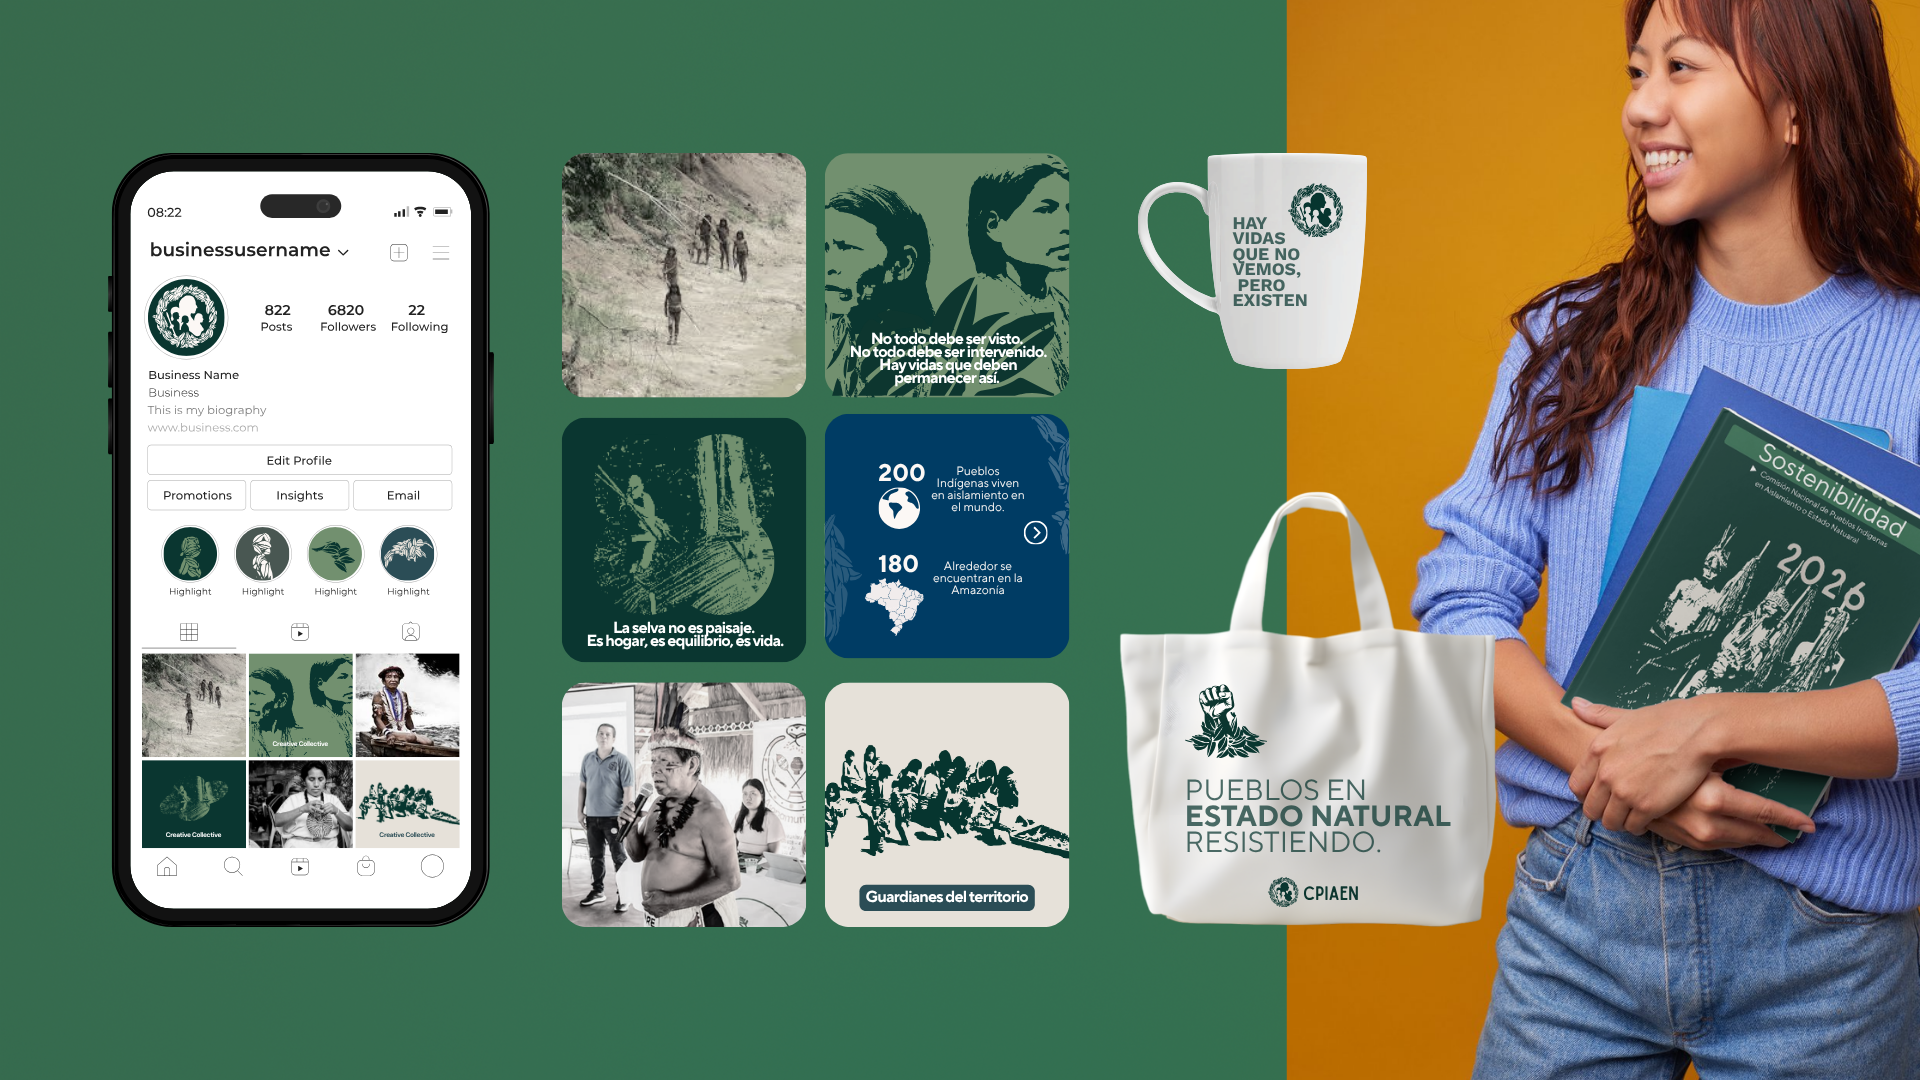
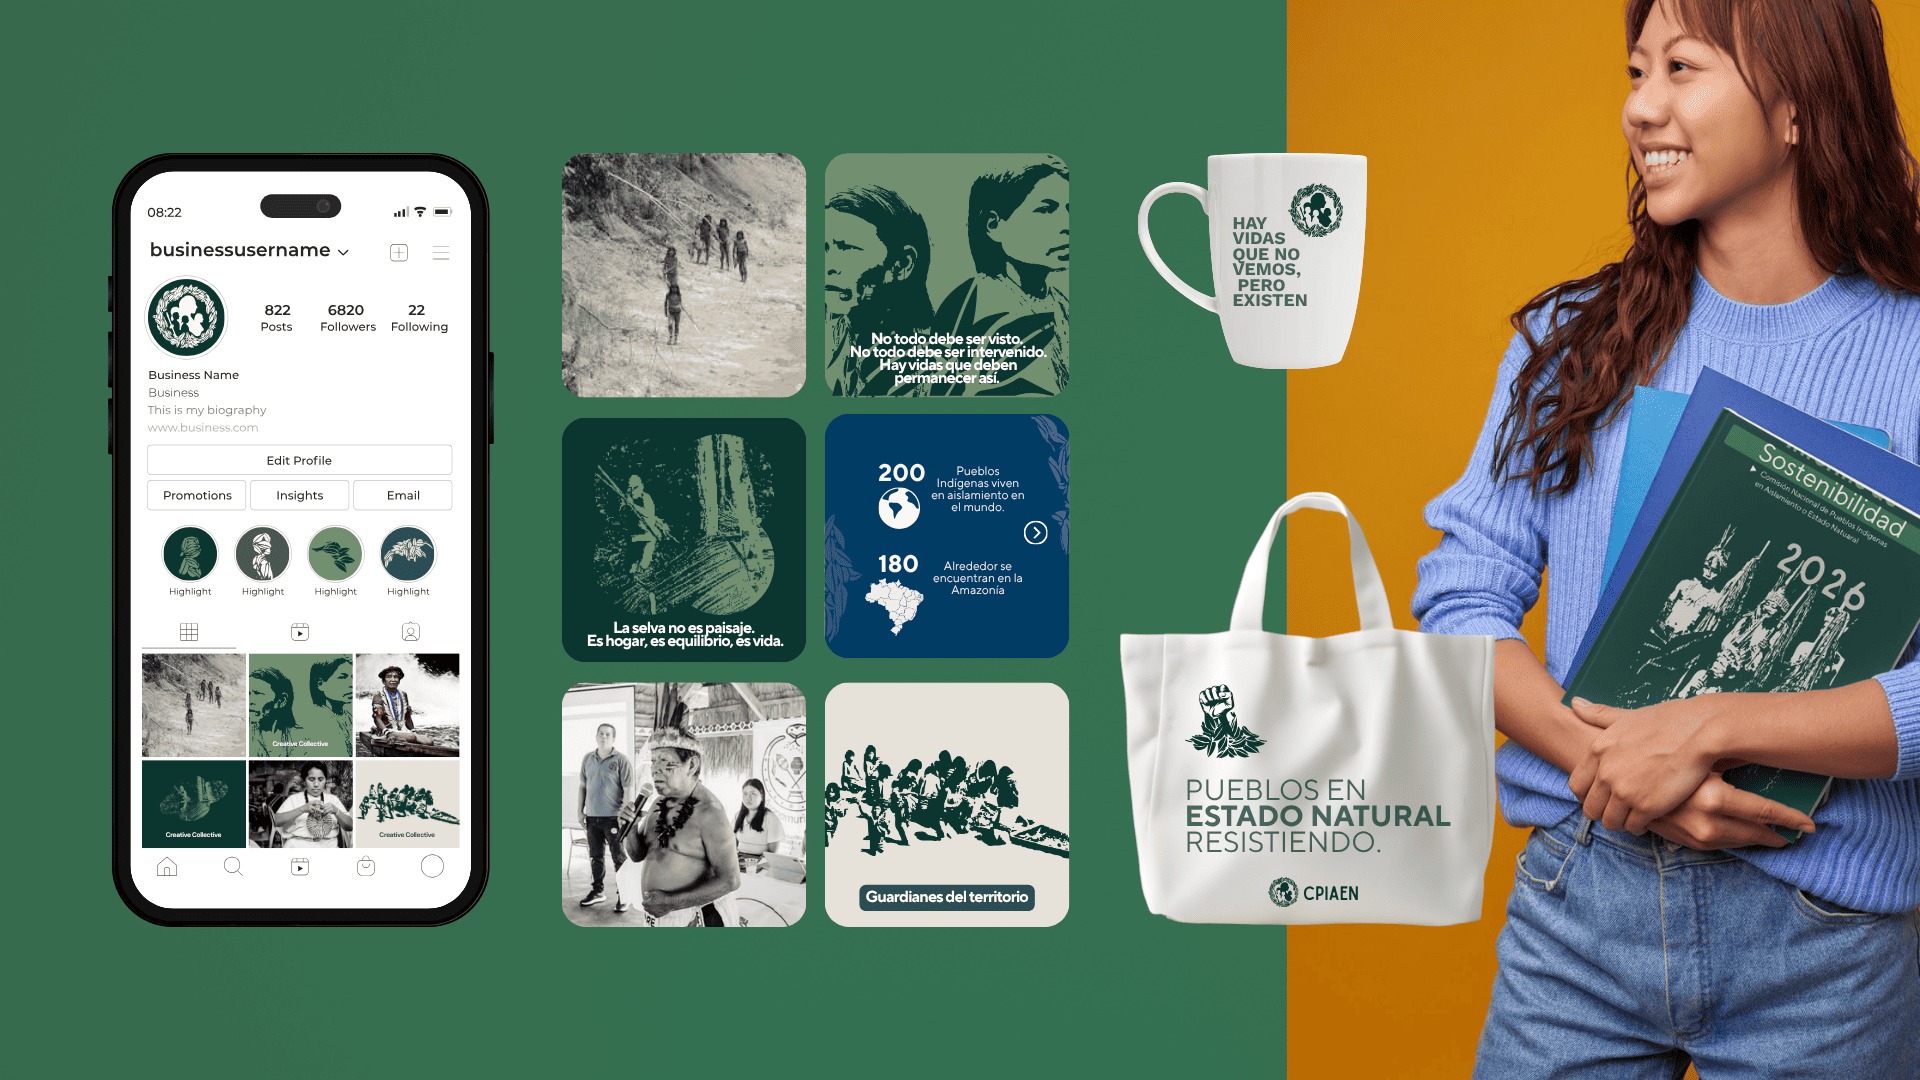
ajuste video y foto de casos

diff --git a/index.html b/index.html
@@ -873,7 +873,7 @@
         desc:"Estrategia de investigación y comunicación para visibilizar la discapacidad derivada de los incidentes viales en Colombia.",
         longDesc:"Desde el área de Mercadeo y Comunicaciones de Sitt y Cía acompañamos una iniciativa de responsabilidad social empresarial enfocada en visibilizar una problemática poco reconocida: las personas que sobreviven a un incidente vial y quedan con una discapacidad. Desde 2016, Sitt apoyó investigaciones desarrolladas junto con la Universidad de Antioquia, investigadores y actores institucionales en distintos territorios del país. Nuestro trabajo articuló la comunicación de las investigaciones, la producción de contenidos y la socialización de sus resultados para convertir información especializada en conocimiento accesible para distintos grupos de interés. La estrategia incluyó publicaciones, contenidos digitales y espacios de divulgación, entre ellos el webinar “La cara oculta de la discapacidad por origen vial”, que alcanzó 272 registros y 99 asistentes nacionales e internacionales. El proyecto contribuyó a posicionar la DOV como un tema de conversación dentro de los ámbitos de seguridad vial, salud pública y responsabilidad social.",	
         result:{label:"8 territorios", value:'"2016 · 2023"'},
-        media:{type:"video", videoId:"haroBBqaxTc&t=3s"},
+        media:{type:"video", videoId:"haroBBqaxTc"},
         links:[{label:"Ver video ↗", url:"https://www.youtube.com/watch?v=haroBBqaxTc&t=3s"}]
       },
 	  {
@@ -957,7 +957,7 @@
         desc:"Research and Communication Strategy to Raise Awareness of Disabilities Resulting from Traffic Accidents in Colombia.",
         longDesc:"The Marketing and Communications department at Sitt y Cía is supporting a corporate social responsibility initiative focused on raising awareness of a little-recognized issue: people who survive a traffic accident and are left with a disability. Since 2016, Sitt has supported research conducted in collaboration with the University of Antioquia, researchers, and institutional partners in various regions of the country. Our work coordinated the communication of the research, the production of content, and the dissemination of its results to transform specialized information into accessible knowledge for various stakeholders. The strategy included publications, digital content, and outreach events, such as the webinar “The Hidden Face of Traffic-Related Disabilities,” which attracted 272 registrations and 99 national and international attendees. The project helped position traffic-related disabilities as a topic of discussion within the fields of road safety, public health, and social responsibility.",	
         result:{label:"8 territories", value:'"2016 · 2023"'},
-        media:{type:"video", videoId:"haroBBqaxTc&t=3s"},
+        media:{type:"video", videoId:"haroBBqaxTc"},
         links:[{label:"Watch video ↗", url:"https://www.youtube.com/watch?v=haroBBqaxTc&t=3s"}]
       },
       {
